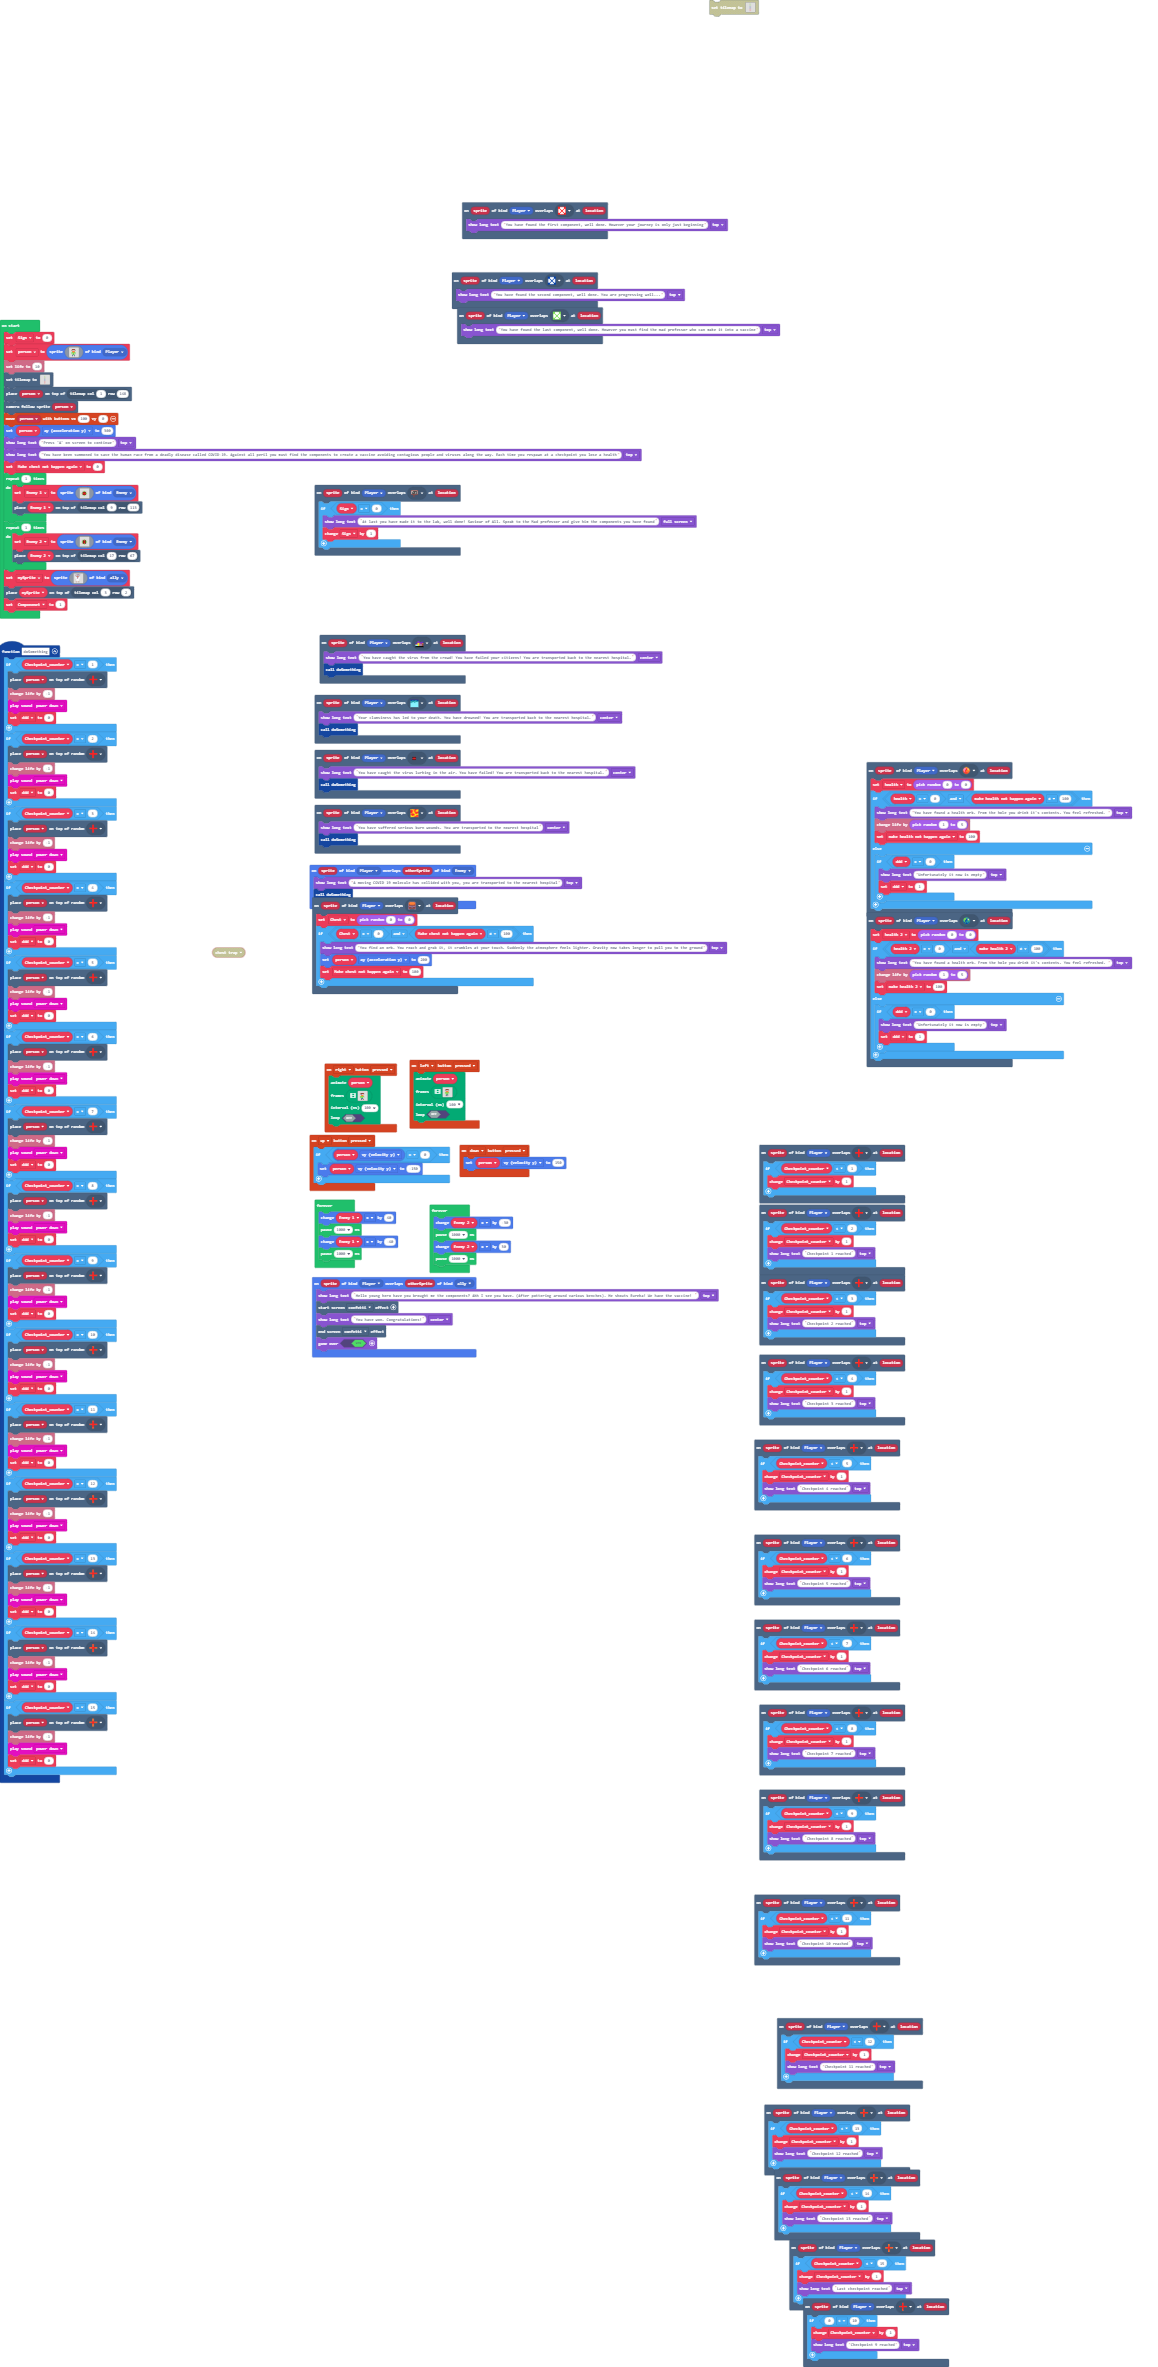
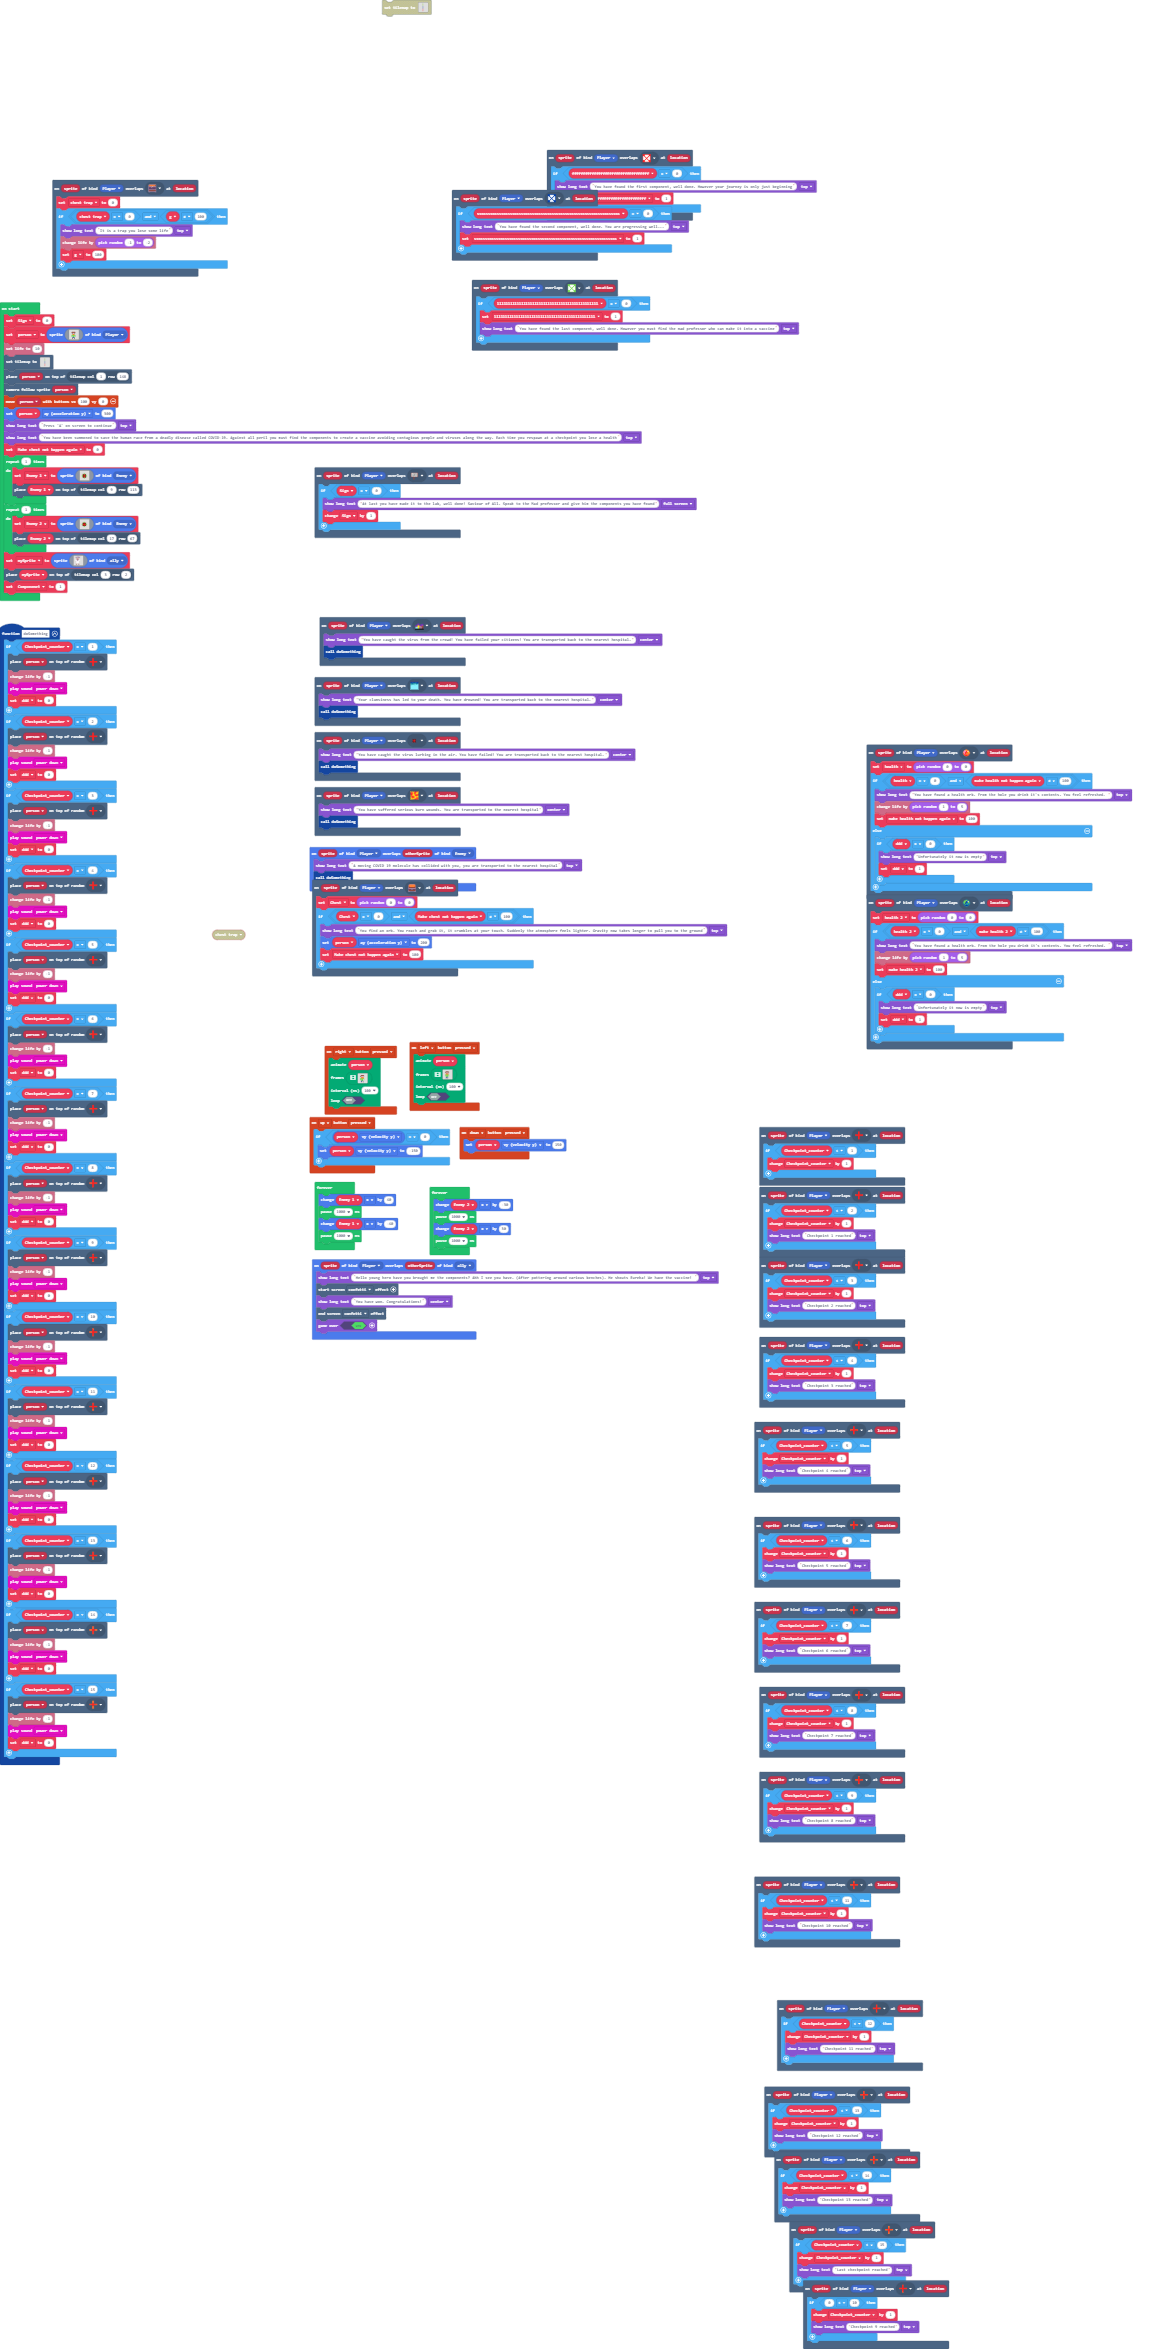
chest

diff --git a/tilemap.g.ts b/tilemap.g.ts
@@ -170,7 +170,7 @@ namespace myTiles {
 . . . . . . . . . . . . . . . . 
 `, [myTiles.transparency16], TileScale.Sixteen);
             case "level_2":
[2 lines of base64/hex data omitted]
 22.2.2.2.2.2.2222222
 2.............222222
 222....2..2.......22
@@ -321,7 +321,7 @@ namespace myTiles {
 222..22222222...2..2
 2...222.......2....2
 222222.............2
-`, [myTiles.transparency16,myTiles.tile5,myTiles.tile7,sprites.dungeon.hazardWater,myTiles.tile3,sprites.dungeon.chestClosed,myTiles.tile6,myTiles.tile12,myTiles.tile13,sprites.dungeon.hazardLava1,myTiles.tile8,myTiles.tile9,myTiles.tile10,myTiles.tile11,myTiles.tile14,myTiles.tile15,myTiles.tile16,myTiles.tile17,sprites.dungeon.collectibleRedCrystal,myTiles.tile20,myTiles.tile23,myTiles.tile24,myTiles.tile21,myTiles.tile26,myTiles.tile27,sprites.dungeon.floorLight0,myTiles.tile28,myTiles.tile30,myTiles.tile29,myTiles.tile31,myTiles.tile32,myTiles.tile25,myTiles.tile34,myTiles.tile35,myTiles.tile33,sprites.dungeon.collectibleBlueCrystal,myTiles.tile36,myTiles.tile37,myTiles.tile38], TileScale.Sixteen);
+`, [myTiles.transparency16,myTiles.tile5,myTiles.tile7,sprites.dungeon.hazardWater,myTiles.tile3,sprites.dungeon.chestClosed,myTiles.tile6,myTiles.tile12,myTiles.tile13,sprites.dungeon.hazardLava1,myTiles.tile8,myTiles.tile9,myTiles.tile10,myTiles.tile11,myTiles.tile14,myTiles.tile15,myTiles.tile16,myTiles.tile17,sprites.dungeon.collectibleRedCrystal,myTiles.tile20,myTiles.tile23,myTiles.tile24,myTiles.tile21,myTiles.tile26,myTiles.tile27,sprites.dungeon.floorLight0,myTiles.tile28,myTiles.tile30,myTiles.tile29,myTiles.tile31,myTiles.tile32,myTiles.tile25,myTiles.tile34,myTiles.tile35,myTiles.tile33,sprites.dungeon.collectibleBlueCrystal,myTiles.tile36,myTiles.tile37,myTiles.tile38,sprites.dungeon.chestOpen], TileScale.Sixteen);
         }
         return null;
     })

diff --git a/main.ts b/main.ts
@@ -288,7 +288,10 @@ controller.right.onEvent(ControllerButtonEvent.Pressed, function () {
     )
 })
 scene.onOverlapTile(SpriteKind.Player, assets.tile`tile39`, function (sprite, location) {
-    game.showLongText("You have found the second component, well done. You are progressing well...", DialogLayout.Top)
+    if (sssssssssssssssssssssssssssssssssssssssssssssssssssssssssssssssss == 0) {
+        game.showLongText("You have found the second component, well done. You are progressing well...", DialogLayout.Top)
+        sssssssssssssssssssssssssssssssssssssssssssssssssssssssssssssssss = 1
+    }
 })
 scene.onOverlapTile(SpriteKind.Player, sprites.dungeon.hazardLava1, function (sprite, location) {
     game.showLongText("You have suffered serious burn wounds. You are transported to the nearest hospital", DialogLayout.Center)
@@ -387,7 +390,10 @@ function doSomething () {
     }
 }
 scene.onOverlapTile(SpriteKind.Player, assets.tile`tile40`, function (sprite, location) {
-    game.showLongText("You have found the first component, well done. However your journey is only just beginning", DialogLayout.Top)
+    if (fffffffffffffffffffffffffffffffffff == 0) {
+        game.showLongText("You have found the first component, well done. However your journey is only just beginning", DialogLayout.Top)
+        fffffffffffffffffffffffffffffffffff = 1
+    }
 })
 scene.onOverlapTile(SpriteKind.Player, sprites.dungeon.hazardWater, function (sprite, location) {
     game.showLongText("Your clumsiness has led to your death. You have drowned! You are transported back to the nearest hospital.", DialogLayout.Center)
@@ -446,7 +452,18 @@ scene.onOverlapTile(SpriteKind.Player, sprites.dungeon.collectibleRedCrystal, fu
     }
 })
 scene.onOverlapTile(SpriteKind.Player, assets.tile`tile41`, function (sprite, location) {
-    game.showLongText("You have found the last component, well done. However you must find the mad professor who can make it into a vaccine", DialogLayout.Top)
+    if (llllllllllllllllllllllllllllllllllllllllllllll == 0) {
+        llllllllllllllllllllllllllllllllllllllllllllll = 1
+        game.showLongText("You have found the last component, well done. However you must find the mad professor who can make it into a vaccine", DialogLayout.Top)
+    }
+})
+scene.onOverlapTile(SpriteKind.Player, sprites.dungeon.chestOpen, function (sprite, location) {
+    chest_trap = 0
+    if (chest_trap == 0 && g != 100) {
+        game.showLongText("It is a trap you lose some life", DialogLayout.Top)
+        info.changeLifeBy(randint(-1, -2))
+        g = 100
+    }
 })
 scene.onOverlapTile(SpriteKind.Player, assets.tile`tile9`, function (sprite, location) {
     if (Checkpoint_counter < 2) {
@@ -458,8 +475,13 @@ sprites.onOverlap(SpriteKind.Player, SpriteKind.Enemy, function (sprite, otherSp
     game.showLongText("A moving COVID 19 molecule has collided with you, you are transported to the nearest hospital", DialogLayout.Top)
     doSomething()
 })
+let g = 0
+let chest_trap = 0
+let llllllllllllllllllllllllllllllllllllllllllllll = 0
 let make_health_not_happen_again = 0
 let health = 0
+let fffffffffffffffffffffffffffffffffff = 0
+let sssssssssssssssssssssssssssssssssssssssssssssssssssssssssssssssss = 0
 let Chest = 0
 let ddd = 0
 let make_health_2 = 0
